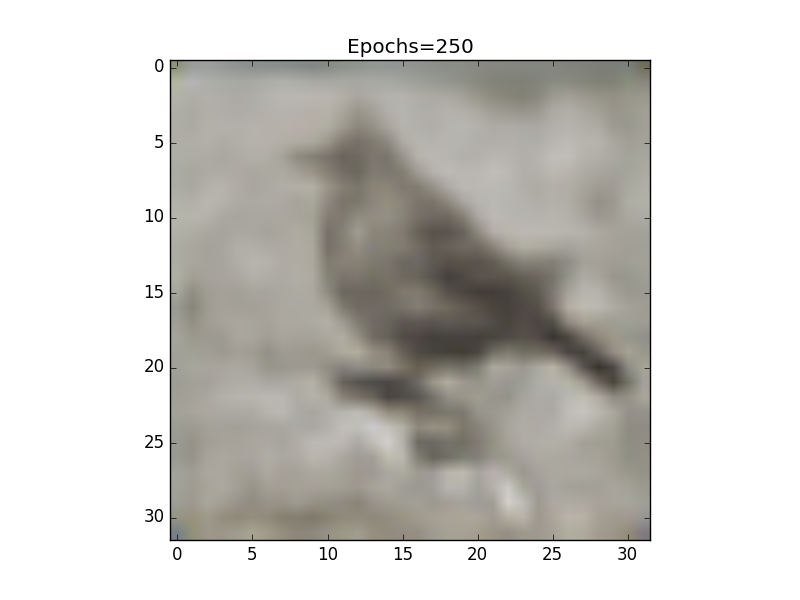
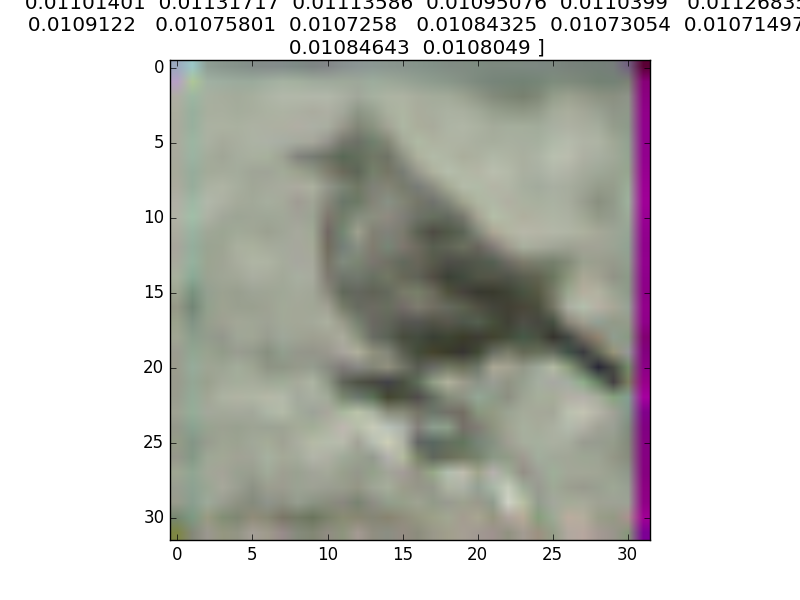
Misc

diff --git a/ColorizingNetwork/ColorizingNet_Cifar10.py b/ColorizingNetwork/ColorizingNet_Cifar10.py
@@ -1,15 +1,9 @@
-# Primeira versão da rede neural capaz de colorir fotos preto e brancas.
-
 from keras.models import Sequential
-from keras.layers import Dense
-from keras.layers import Dropout
-from keras.layers import Flatten
+from keras.layers import Dense, Dropout, Flatten, Lambda
 from keras.utils import np_utils
 from keras.datasets import cifar10
-from keras.regularizers import l2
-from keras.regularizers import l1
-from keras.layers.convolutional import Convolution2D
-from keras.layers.convolutional import MaxPooling2D
+from keras.regularizers import l2, l1
+from keras.layers.convolutional import Convolution2D, MaxPooling2D
 import matplotlib.pyplot as plt
 import numpy
 import time
@@ -33,7 +27,7 @@ numpy.random.seed(SEED)
 
 # Training Options
 BATCHSIZE = 64
-EPOCH = 250
+EPOCH = 50
 
 
 # Model Options
@@ -96,7 +90,7 @@ def plotGraph (filename, nodes, vecTrain, vecTest, nameVec):
 ########################
 
 #### load cifar10 dataset
-(Y,a),(Y_test, a_test) = cifar10.load_data()
+(Y,_),(Y_test, _) = cifar10.load_data()
 X = numpy.zeros((Y.shape[0],1,Y.shape[2],Y.shape[3]))
 X_test = numpy.zeros((Y_test.shape[0],1,Y.shape[2],Y.shape[3]))
 
@@ -116,34 +110,27 @@ Y /= 255
 X_test /= 255
 Y_test /= 255
 
-# Limit size of dataset
-F = numpy.zeros((512,Y.shape[1],Y.shape[2],Y.shape[3]))
-G = numpy.zeros((512,X.shape[1],X.shape[2],X.shape[3]))
-F_test = numpy.zeros((128,Y_test.shape[1],Y_test.shape[2],Y_test.shape[3]))
-G_test = numpy.zeros((128,X_test.shape[1],X_test.shape[2],X_test.shape[3]))
-for i in range(0,F.shape[0]):
-	F[i] = Y[i]
-for i in range(0,G.shape[0]):
-	G[i] = X[i]
-for i in range(0,F_test.shape[0]):
-	F_test[i] = Y_test[i]
-for i in range(0,G_test.shape[0]):
-	G_test[i] = X_test[i]
+nImages = 512
+
+G = X[:nImages]
+F = Y[:nImages]
+G_test = X_test[:128]
+F_test = Y_test[:128]
 
 #### Model
 print("----------------------------------")
 print("Using Batch =",BATCHSIZE ,"Epoch = ",EPOCH)
 model = Sequential()
 # Layers
-model.add(Convolution2D(kernel1[0], kernel1[1], kernel1[1], border_mode='same', input_shape=(1, 32, 32), activation='relu'))
-model.add(Convolution2D(kernel2[0], kernel2[1], kernel2[1], border_mode='same', activation='relu'))
+model.add(Convolution2D(kernel1[0], kernel1[1], kernel1[1], border_mode='same', init='he_normal', input_shape=(1, 32, 32), activation='relu'))
+model.add(Convolution2D(kernel2[0], kernel2[1], kernel2[1], border_mode='same', init='he_normal', activation='relu'))
 
 # Compile
-model.compile(loss='mean_squared_error', optimizer='nadam', metrics=['accuracy'])
+model.compile(loss='mean_squared_error', optimizer='nadam', metrics=['mean_squared_error'])
 print(model.summary())
 
 # Fit
-history = model.fit(G,F,validation_data=(G_test,F_test),nb_epoch=EPOCH,batch_size=BATCHSIZE,verbose=0)
+history = model.fit(G,F,validation_data=(G_test,F_test),nb_epoch=EPOCH,batch_size=BATCHSIZE,verbose=1)
 
 #### Show results
 MSE = numpy.array(history.history['mean_squared_error'])
